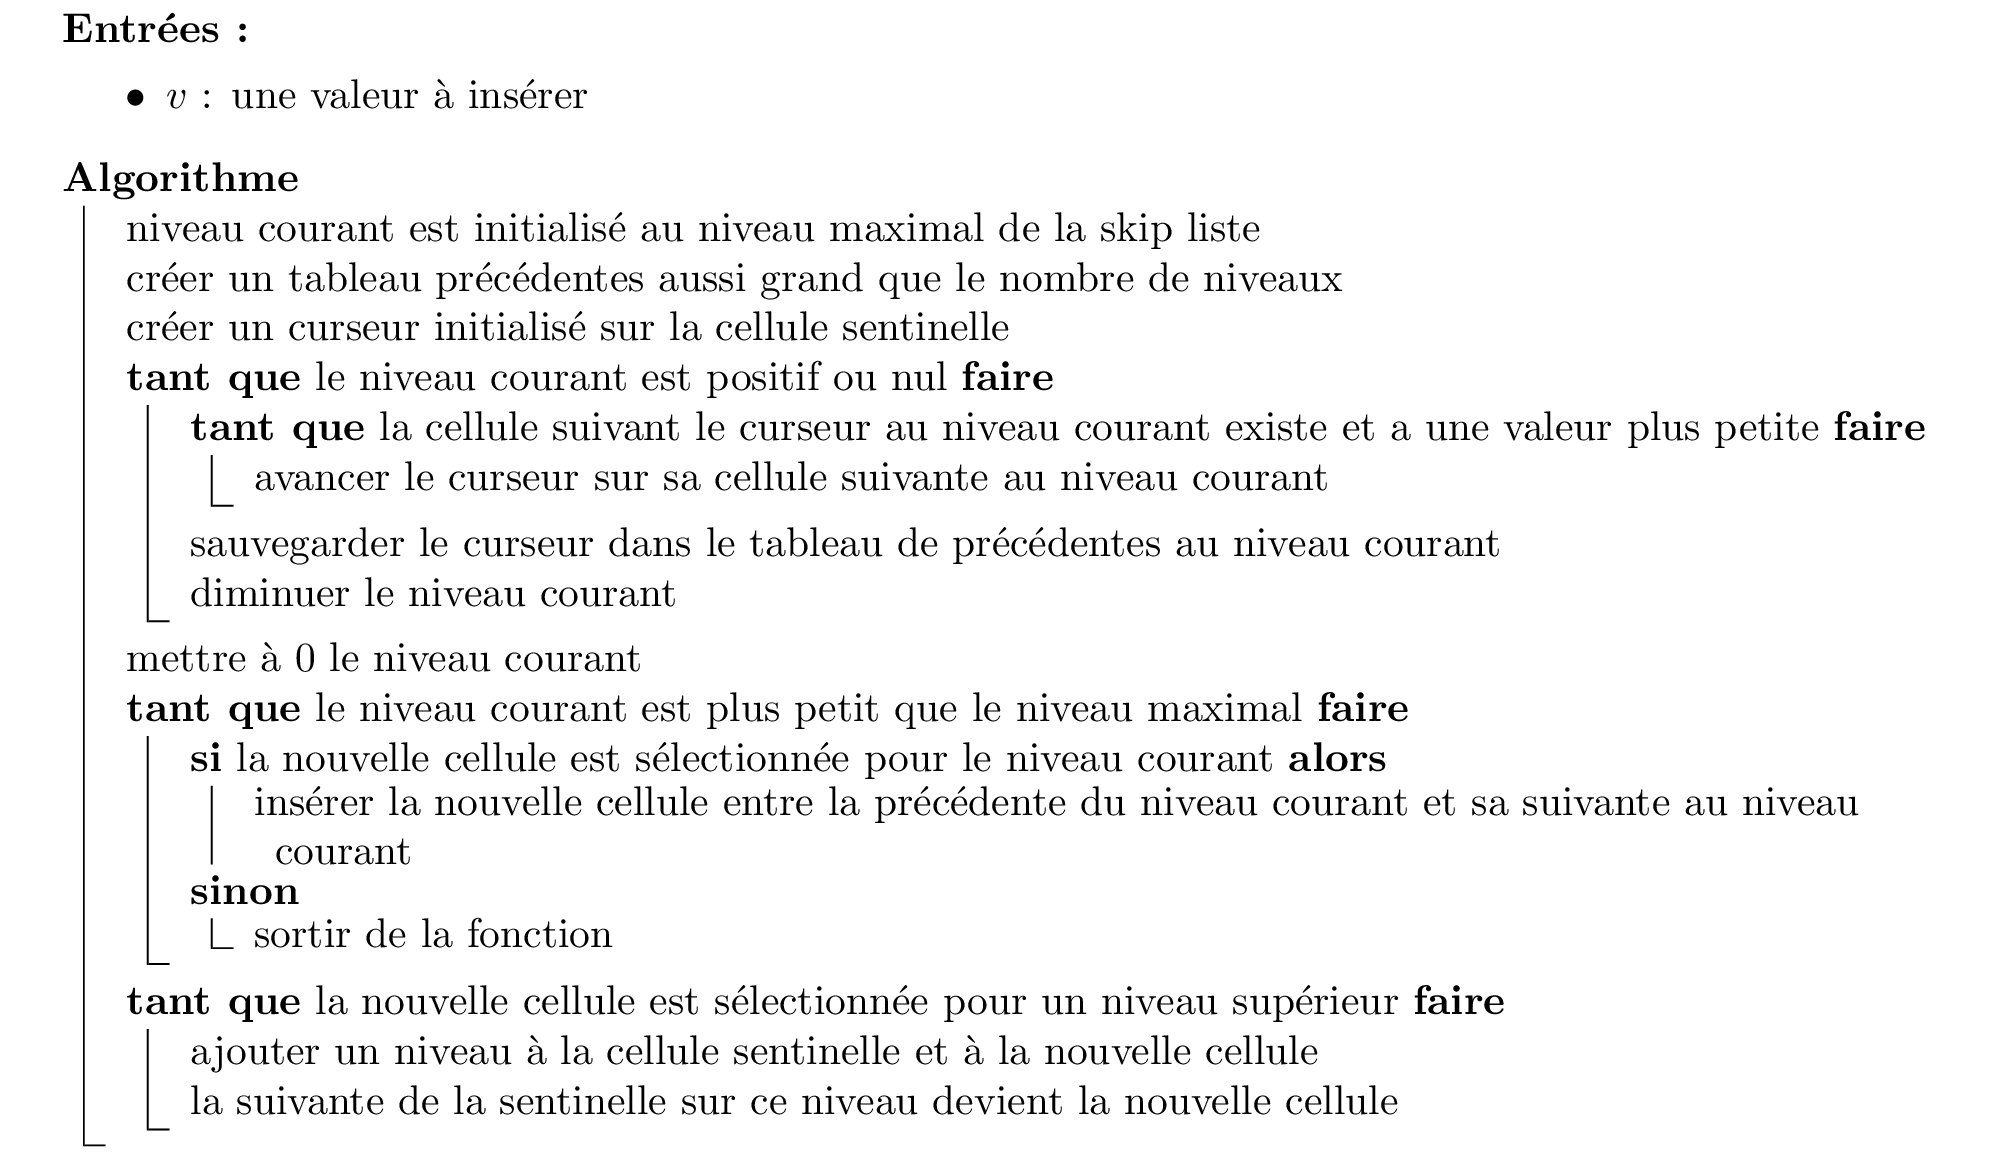
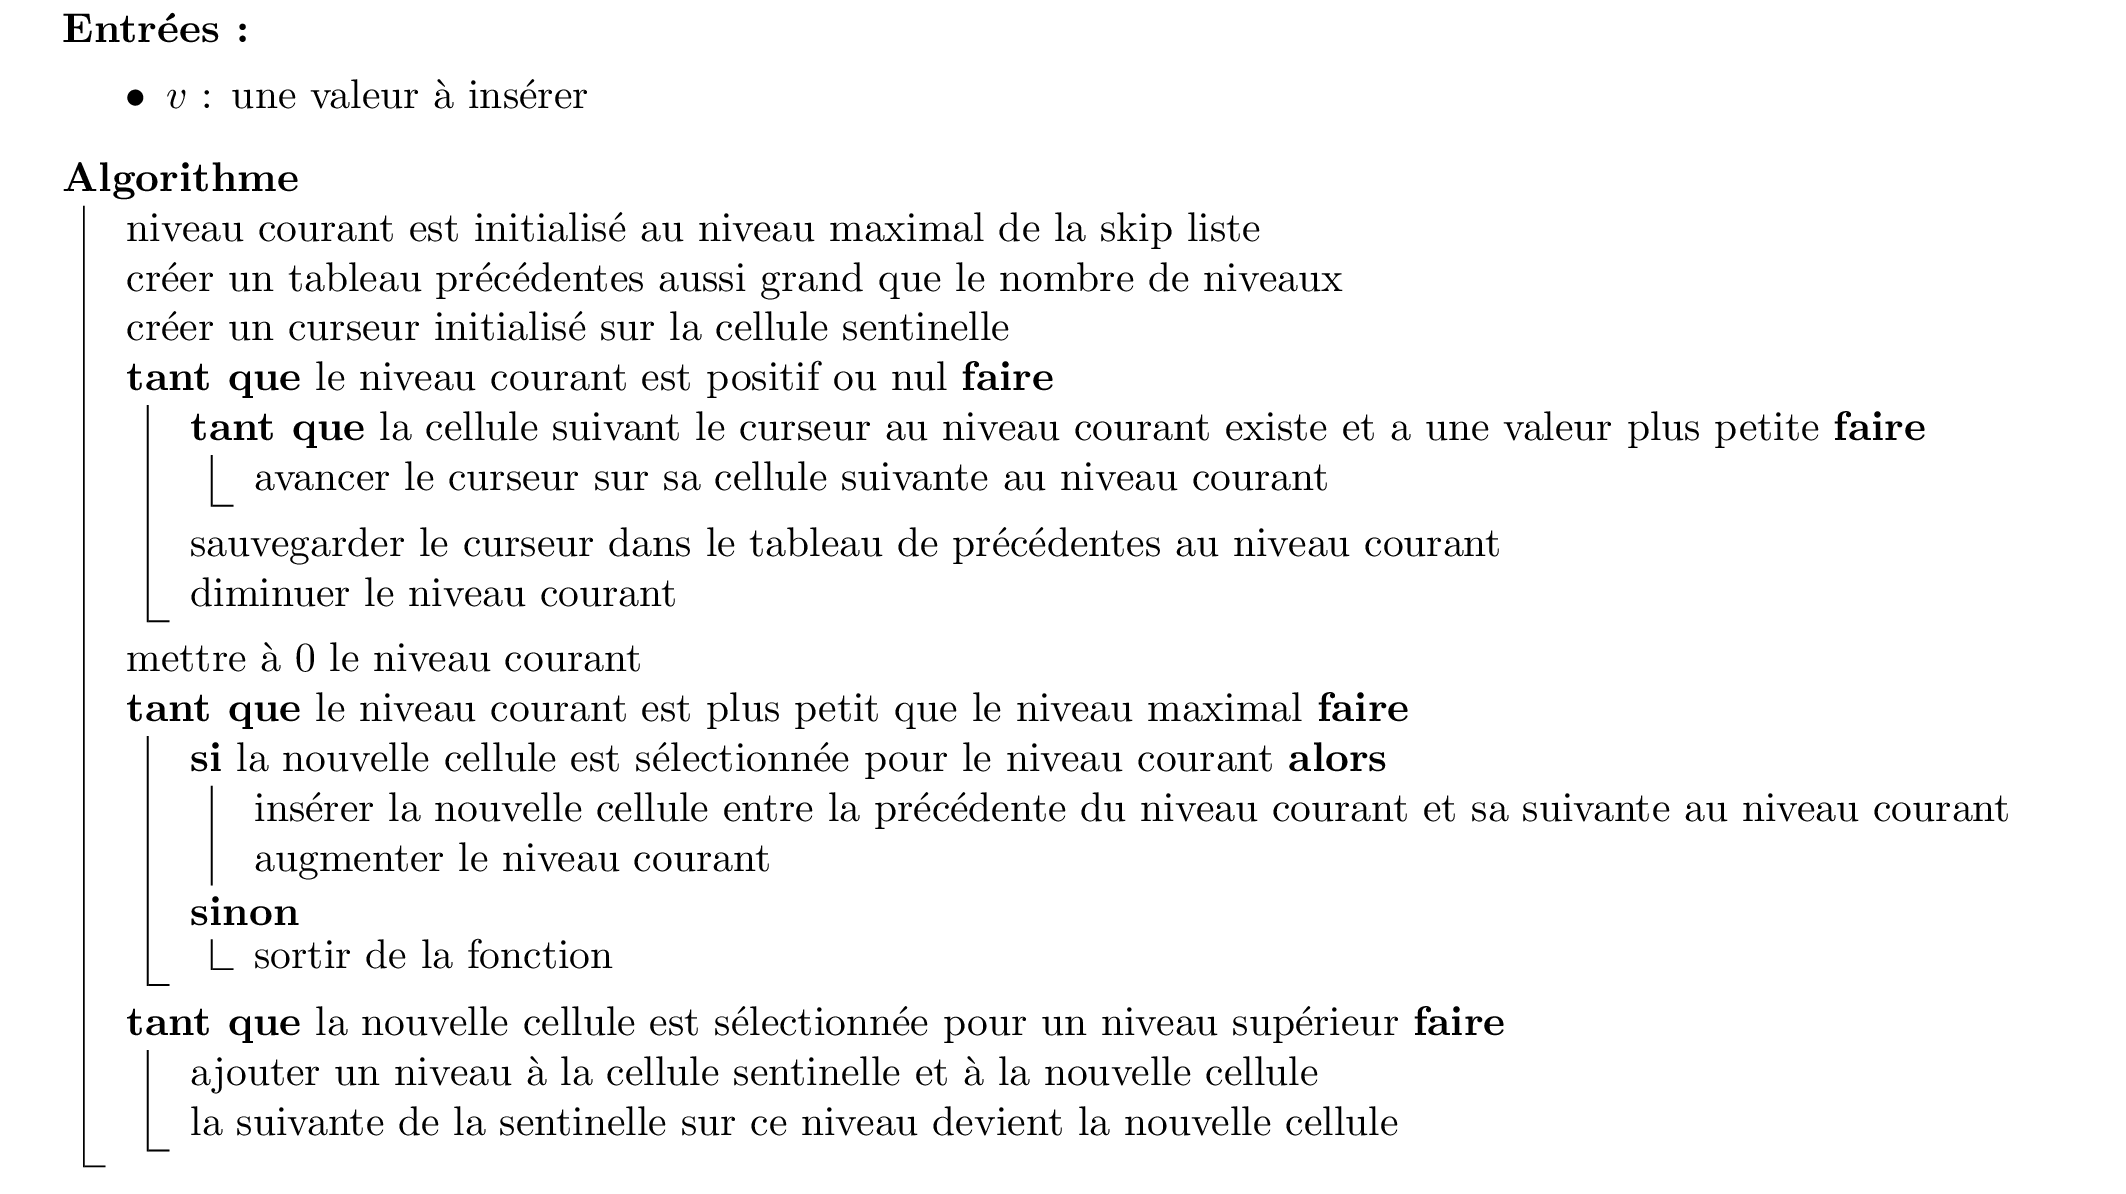
fixed missing incrementation in last algo

Changed region(s): [[0.0309, 0.1228, 0.9572, 0.9514], [0.0309, 0.0, 0.3088, 0.0921], [0.0309, 0.9514, 0.0618, 0.9821]]

diff --git a/images/algo_niveaux_automatiques.tex b/images/algo_niveaux_automatiques.tex
@@ -1,4 +1,4 @@
-\documentclass[varwidth = 17cm]{standalone}
+\documentclass[varwidth = 18cm]{standalone}
 \usepackage{ucblalgo}
 
 \begin{document}
@@ -23,7 +23,8 @@
     mettre à 0 le niveau courant \;
     \Tq{le niveau courant est plus petit que le niveau maximal}{
       \uSi{la nouvelle cellule est sélectionnée pour le niveau courant}{
-        insérer la nouvelle cellule entre la précédente du niveau courant et sa suivante au niveau courant
+        insérer la nouvelle cellule entre la précédente du niveau courant et sa suivante au niveau courant \;
+        augmenter le niveau courant \;
       }
       \Sinon{
         sortir de la fonction

diff --git a/readme.md b/readme.md
@@ -332,6 +332,7 @@ selon le résultat. Nous obtenons alors l'algorithme suivant
   - Tant que le niveau courant est plus petit que le niveau maximal
   | - Si la nouvelle cellule est sélectionnée pour le niveau courant
   | | - insérer la nouvelle cellule entre la precedente du niveau courant et sa suivante au niveau courant
+    | - augmenter le niveau courant
   | - Sinon
   | | - sortir de la fonction
   - Tant que la nouvelle cellule est sélectionnée pour un niveau supérieur
